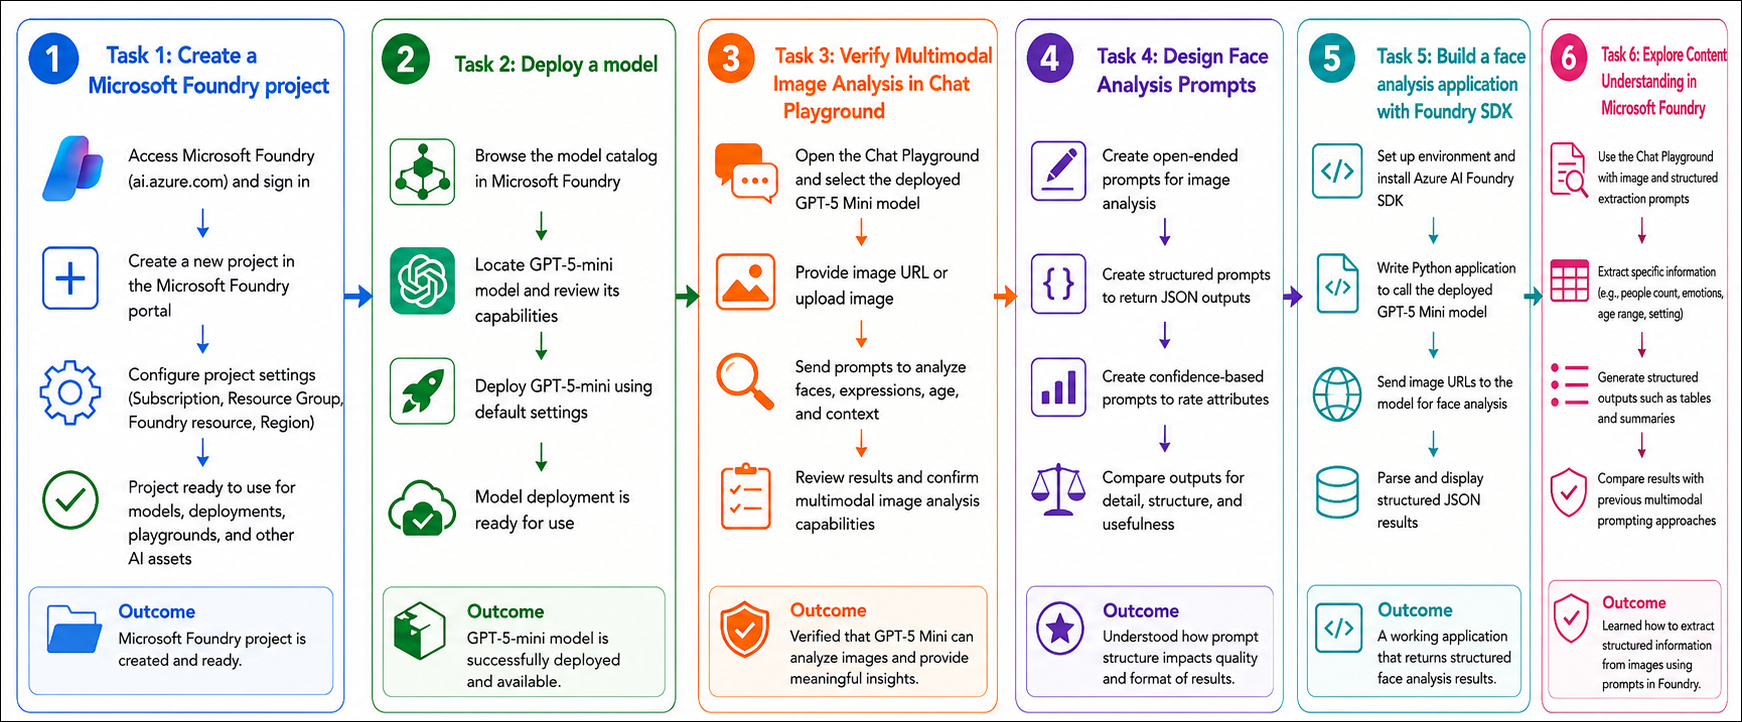
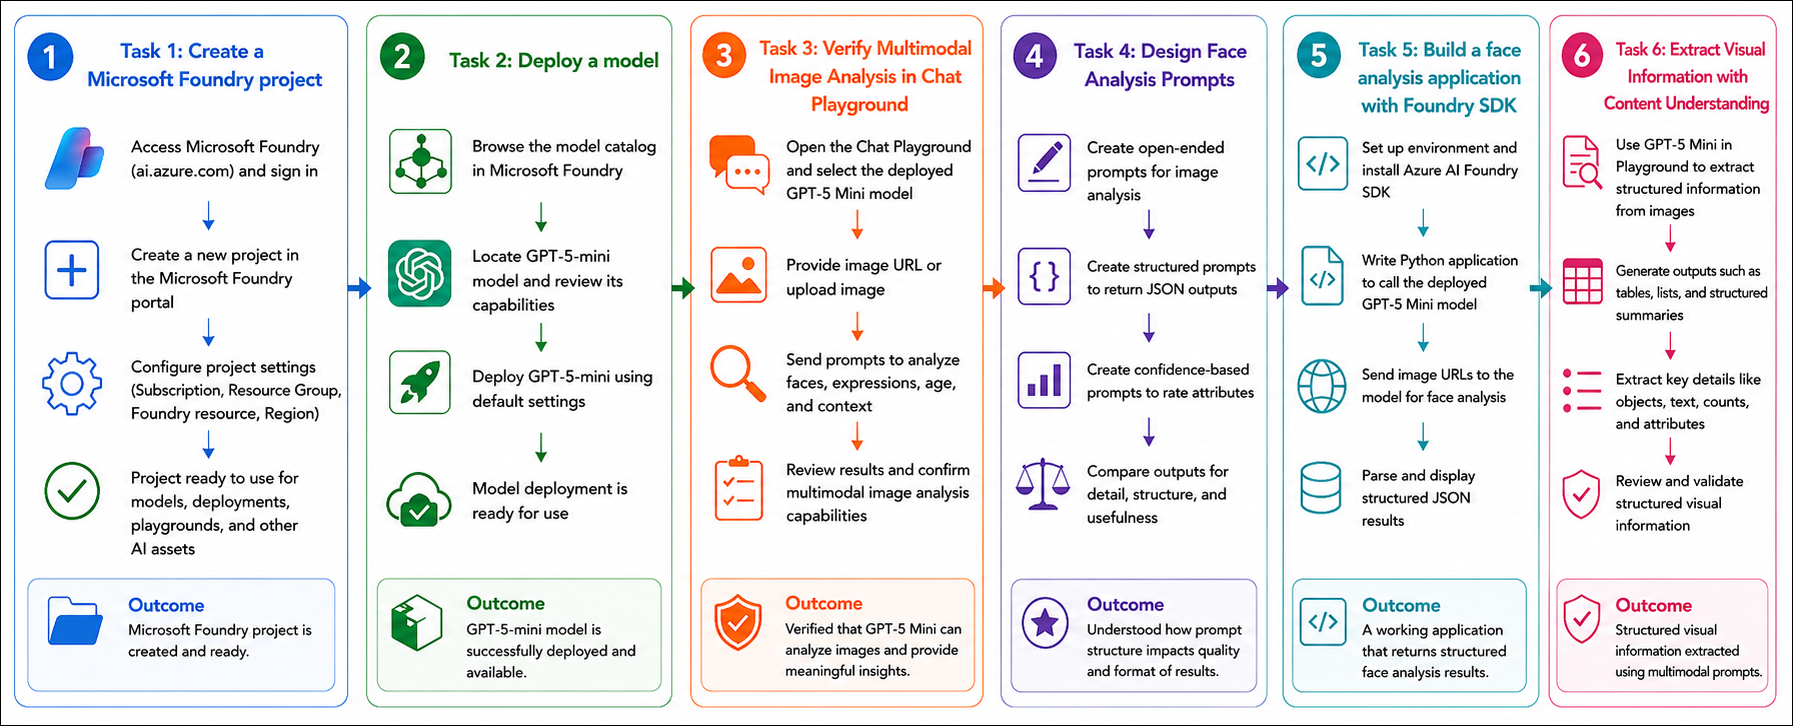
update

Changed region(s): [[0.0, 0.0, 0.992, 1.0], [0.279, 0.6094, 0.31, 0.6399]]

diff --git a/Instructions/Labs/09new-face-analysis.md b/Instructions/Labs/09new-face-analysis.md
@@ -17,7 +17,7 @@ In this exercise, you will perform the following tasks:
 * Task 3: Verify Multimodal Image Analysis in Chat Playground
 * Task 4: Design Face Analysis Prompts
 * Task 5: Build a face analysis application with Foundry SDK
-* Task 6: Explore Content Understanding in Microsoft Foundry
+* Task 6: Extract Visual Information with Content Understanding
 
 ## Task 1: Create a Microsoft Foundry project
 
@@ -404,7 +404,7 @@ In this task, you'll create a Python application that uses the Azure AI Foundry 
 
       > **Expected Outcome:** The application should successfully analyze both images and return structured face analysis information generated by GPT-5 Mini.
 
-## Task 6: Explore Content Understanding in Microsoft Foundry
+## Task 6: Extract Visual Information with Content Understanding
 
 In this task, you'll use GPT-5 Mini to extract structured information from images and generate organized outputs such as tables and summaries.
 

diff --git a/Instructions/Labs/AI901-Gettingstarted/M09new-Gettingstarted.md b/Instructions/Labs/AI901-Gettingstarted/M09new-Gettingstarted.md
@@ -106,7 +106,7 @@ Welcome to your AI-901: Microsoft Azure AI Fundamentals workshop! We've prepared
  
 Once you're ready to dive in, your virtual machine and **Guide** will be right at your fingertips within your web browser.
  
-![Access Your VM and Lab Guide](../media/lab6a-guidetab.png)
+![Access Your VM and Lab Guide](../media/lab09-guidetab.png)
 
 ### Virtual Machine & Lab Guide
  
